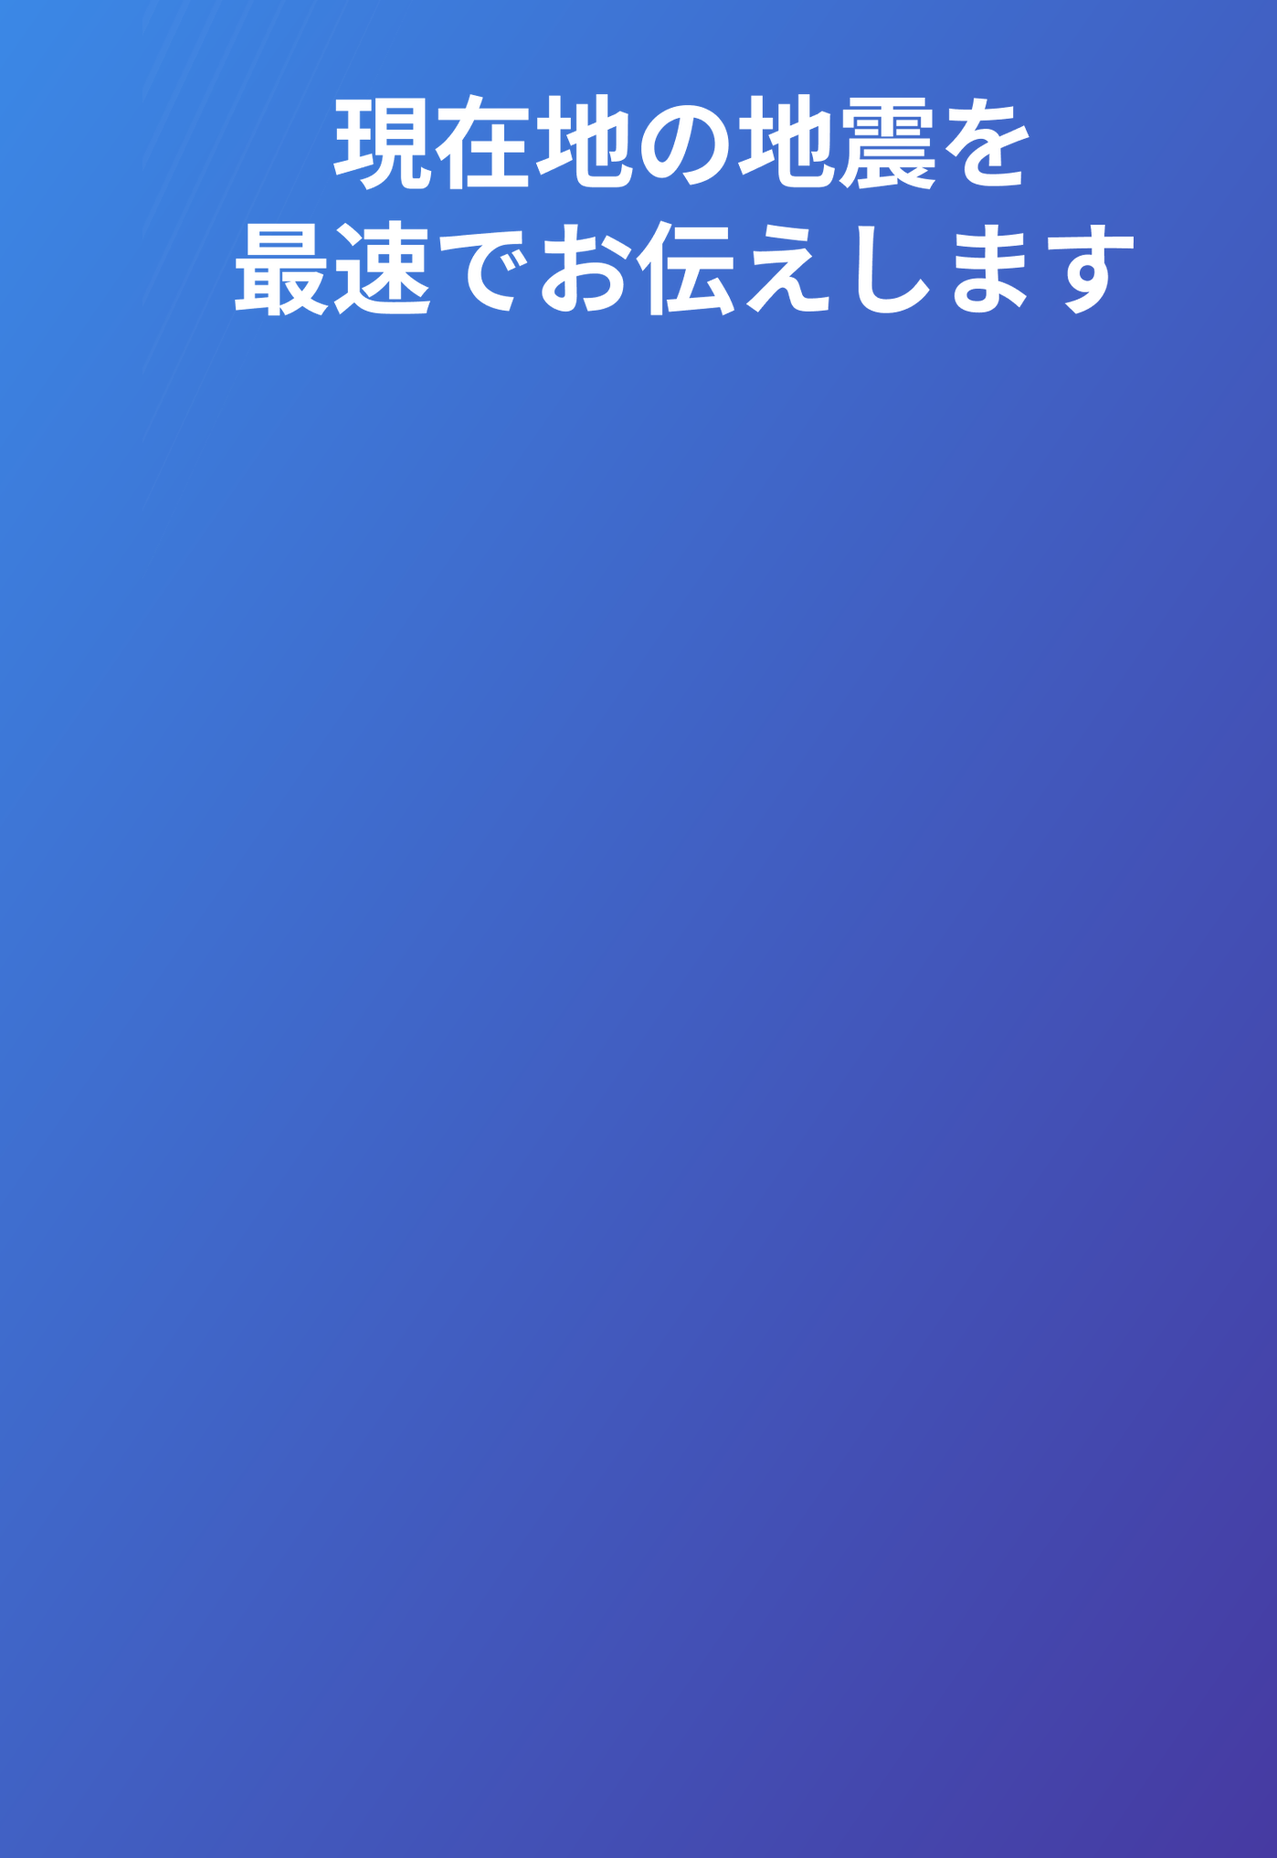
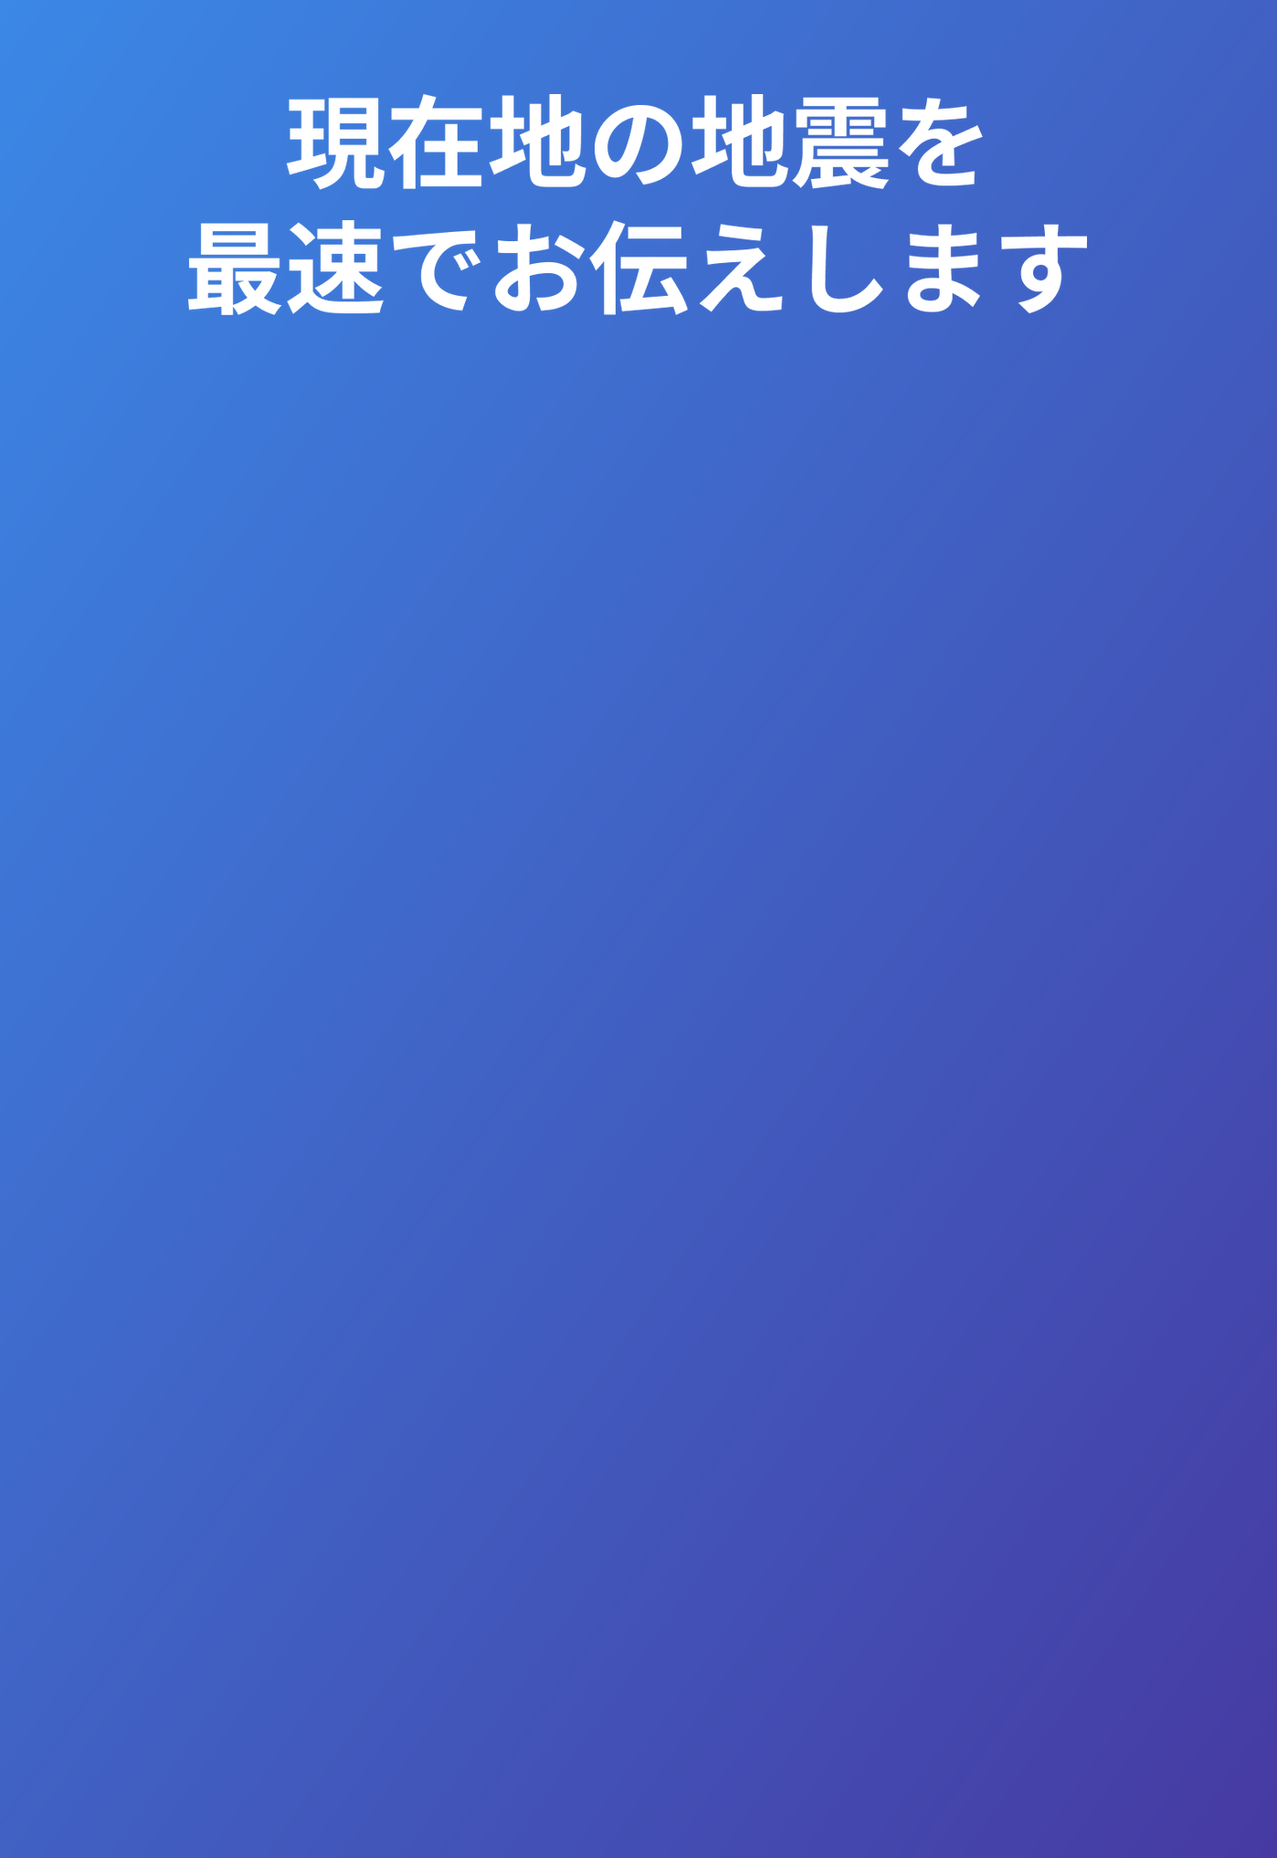
feat: ヘッダと検索結果にロック画面と地震詳細を加え、見出しの抜き出しのずれを直す
- ヘッダと検索結果の iPhone を 4 台（地震詳細・EEW・ロック画面・強震モニタ）にし、外側を奥の上、内側を手前の下に重ねる。
  検索結果の見出しは手前の端末より上に置いて大きくする。
- 背景の左上の隅のグラデーションの推定誤差を見出しとして拾い、切り出す範囲が広がっていた。
  抜き出しの下限を上げ、横位置は元の中心からのずれを保つ。Duo と iPad の背景を作り直した。

Changed region(s): [[0.1538, 0.031, 0.892, 0.1858]]

diff --git a/tool/store_screenshots/creative_assets.py b/tool/store_screenshots/creative_assets.py
@@ -15,19 +15,28 @@ from PIL import Image
 
 sys.path.insert(0, str(Path(__file__).resolve().parent))
 from compose import place_screen  # noqa: E402
-from derive_background import extract_text, fit_gradient, render_gradient  # noqa: E402
+from derive_background import extract_text, fit_gradient, render_gradient, text_left  # noqa: E402
 
 TOOL_DIR = Path(__file__).resolve().parent
 
 # App Store の「ヘッダと検索結果」の画像。寸法と、見せたいものを収める領域（art safe area）は
 # https://developer.apple.com/help/app-store-connect/reference/app-information/creative-assets-specifications （2026-11-24 確認）。
-# 見出しは safe area の中央に、端末は左右に置く。端末と見出しは safe area より大きくしており、
-# 端末の画面の向きによっては端が切れる。phone は端末の高さ、text は見出しの高さの上限（どちらもキャンバスの高さに対する比）。
+# 左右に奥と手前の iPhone を 2 台ずつ重ね、奥は上、手前は下に寄せる。端末と見出しは safe area より大きく、
+# 画面の向きによっては端が切れる。検索結果の見出しは safe area の外（手前の端末より上）に置いている。
+# phone は手前の端末の高さ（キャンバスの高さに対する比）、back は奥の端末の手前に対する比、
+# overlap は奥の端末が手前に隠れる幅の比、watch は Apple Watch の手前の端末に対する比。
 PLACEMENTS = {
-    "header": {"size": (3840, 1646), "safe": (1097, 493, 1646, 661), "phone": 0.88, "text": 0.62},
-    "search_results": {"size": (3840, 2560), "safe": (836, 765, 2168, 1030), "phone": 0.88, "text": 0.36},
+    "header": {
+        "size": (3840, 1646), "safe": (1097, 493, 1646, 661),
+        "phone": 0.84, "back": 0.9, "overlap": 0.45, "watch": 0.38, "text": "center", "text_height": 0.62,
+    },
+    "search_results": {
+        "size": (3840, 2560), "safe": (836, 765, 2168, 1030),
+        "phone": 0.72, "back": 0.9, "overlap": 0.5, "watch": 0.42, "text": "top",
+    },
 }
 MARGIN = 0.02
+EDGE = 0.025
 
 IPHONE = {
     "bezel": "bezel_iphone_18_pro_black_portrait.png",
@@ -63,43 +72,69 @@ def draw_device(canvas: Image.Image, box: dict, screenshot: Path, fixtures: Path
     canvas.alpha_composite(bezel, (round(rect["x"]), round(rect["y"])))
 
 
+def layout(placement: str, text_box: tuple[int, int, int, int], source_width: int) -> tuple[dict, list[dict]]:
+    spec = PLACEMENTS[placement]
+    width, height = spec["size"]
+    margin = width * MARGIN
+    edge = height * EDGE
+    front_height = height * spec["phone"]
+    front_width = IPHONE["frame"][0] * front_height / IPHONE["frame"][1]
+    back_height = front_height * spec["back"]
+    back_width = IPHONE["frame"][0] * back_height / IPHONE["frame"][1]
+    front_top = height - edge - front_height
+    back_right = width - margin - back_width
+    front_left = margin + back_width * (1 - spec["overlap"])
+    front_right = back_right + back_width * spec["overlap"] - front_width
+    watch_height = front_height * spec["watch"]
+    watch_width = WATCH["frame"][0] * watch_height / WATCH["frame"][1]
+    devices = [
+        {**device_box(IPHONE, margin, edge, back_height), "scene": "earthquake_detail"},
+        {**device_box(IPHONE, back_right, edge, back_height), "scene": "kyoshin_monitor"},
+        {**device_box(IPHONE, front_left, front_top, front_height), "scene": "eew_warning"},
+        {**device_box(IPHONE, front_right, front_top, front_height), "scene": "lock_screen_live_activity"},
+        {
+            **device_box(WATCH, width * 0.995 - watch_width, front_top + front_height - watch_height * 0.92, watch_height),
+            "scene": "watch_live_activity",
+        },
+    ]
+
+    text_width, text_height = text_box[2] - text_box[0], text_box[3] - text_box[1]
+    if spec["text"] == "top":
+        top, bottom = edge, front_top - edge / 2
+        available = back_right - (margin + back_width) - 2 * margin
+        scale = min(available * 0.92 / text_width, (bottom - top) / text_height)
+        y = (top + bottom) / 2 - text_height * scale / 2
+    else:
+        _, safe_y, _, safe_h = spec["safe"]
+        available = front_right - (front_left + front_width) - 2 * margin
+        scale = min(available * 0.92 / text_width, height * spec["text_height"] / text_height)
+        y = safe_y + safe_h / 2 - text_height * scale / 2
+    return {"x": text_left(text_box, source_width, scale, width), "y": y, "scale": scale}, devices
+
+
 def render(placement: str, screenshots: Path, fixtures: Path, source: Path) -> Image.Image:
     width, height = PLACEMENTS[placement]["size"]
-    safe_x, safe_y, safe_w, safe_h = PLACEMENTS[placement]["safe"]
     pixels = np.asarray(Image.open(source).convert("RGB"), dtype=np.float64)
     coefficients = fit_gradient(pixels)
-    text, _ = extract_text(pixels, render_gradient(coefficients, pixels.shape[1], pixels.shape[0]))
+    text, box = extract_text(pixels, render_gradient(coefficients, pixels.shape[1], pixels.shape[0]))
     canvas = Image.fromarray(render_gradient(coefficients, width, height).round().astype(np.uint8), "RGB").convert("RGBA")
 
-    spec = PLACEMENTS[placement]
-    margin = width * MARGIN
-    phone_height = height * spec["phone"]
-    phone_width = IPHONE["frame"][0] * phone_height / IPHONE["frame"][1]
-    top = (height - phone_height) / 2
-    left = device_box(IPHONE, margin, top, phone_height)
-    right_x = width - margin - phone_width
-    right = device_box(IPHONE, right_x, top, phone_height)
-    watch_height = phone_height * 0.42
-    watch_width = WATCH["frame"][0] * watch_height / WATCH["frame"][1]
-    watch = device_box(WATCH, width * 0.995 - watch_width, top + phone_height - watch_height * 0.92, watch_height)
-
-    # 見出しは左右の端末の間に収まる最大の大きさにし、safe area の中心に置く。
-    available = right_x - (margin + phone_width) - 2 * margin
-    scale = min(available * 0.92 / text.width, height * spec["text"] / text.height)
+    placed, devices = layout(placement, box, pixels.shape[1])
+    scale = placed["scale"]
     text = text.resize((round(text.width * scale), round(text.height * scale)), Image.LANCZOS)
-    center_y = safe_y + safe_h / 2
-    canvas.alpha_composite(text, (round((width - text.width) / 2), round(center_y - text.height / 2)))
-
-    draw_device(canvas, left, screenshots / "eew_warning.png", fixtures)
-    draw_device(canvas, right, screenshots / "kyoshin_monitor.png", fixtures)
-    if (screenshots / "watch_live_activity.png").is_file():
-        draw_device(canvas, watch, screenshots / "watch_live_activity.png", fixtures)
+    canvas.alpha_composite(text, (round(placed["x"]), round(placed["y"])))
+    for device in devices:
+        screenshot = screenshots / f"{device['scene']}.png"
+        if device["scene"] == "watch_live_activity" and not screenshot.is_file():
+            continue
+        draw_device(canvas, device, screenshot, fixtures)
     return canvas.convert("RGB")
 
 
 def main() -> None:
     parser = argparse.ArgumentParser(description="Render the App Store product page header and search results images")
-    parser.add_argument("--screenshots", type=Path, required=True, help="directory with eew_warning / kyoshin_monitor / watch_live_activity captures")
+    parser.add_argument("--screenshots", type=Path, required=True, help="directory with eew_warning / kyoshin_monitor / earthquake_detail / lock_screen_live_activity "
+        "(and optionally watch_live_activity) captures")
     parser.add_argument("--fixtures", type=Path, required=True, help="directory with decrypted fixtures (device frames)")
     parser.add_argument("--background", type=Path, default=TOOL_DIR / "backgrounds" / "01_eew.png", help="background with the logo and tagline")
     parser.add_argument("--output", type=Path, required=True)

diff --git a/tool/store_screenshots/derive_background.py b/tool/store_screenshots/derive_background.py
@@ -14,6 +14,9 @@ from PIL import Image
 # Figma のデザインは iPhone の縦長の画面向けしか無い。iPhone Duo などの別の縦横比には、
 # 既存の背景からグラデーションを推定し、白い見出しとロゴだけを抜き出して置き直す。
 TEXT_THRESHOLD = 12
+# Figma の背景は 3 色のグラデーションで、線形の推定とは左上の隅で白の割合にして最大 0.03 ずれる。
+# これを見出しとして拾うと、切り出す範囲が隅まで広がり、置き直した見出しが中央から外れる。
+TEXT_ALPHA_FLOOR = 0.05
 
 
 def fit_gradient(pixels: np.ndarray) -> np.ndarray:
@@ -36,28 +39,33 @@ def render_gradient(coefficients: np.ndarray, width: int, height: int) -> np.nda
     return np.clip(basis @ coefficients, 0, 255)
 
 
-def extract_text(pixels: np.ndarray, gradient: np.ndarray) -> tuple[Image.Image, int]:
+def extract_text(pixels: np.ndarray, gradient: np.ndarray) -> tuple[Image.Image, tuple[int, int, int, int]]:
     # 見出しとロゴは白一色。各画素の白の割合を (画素 - 地) / (白 - 地) で求める。
     alpha = ((pixels - gradient) / np.maximum(255 - gradient, 1)).max(axis=-1)
     alpha = np.clip(alpha, 0, 1)
-    alpha[alpha < 0.02] = 0
+    alpha[alpha < TEXT_ALPHA_FLOOR] = 0
     layer = np.zeros((*alpha.shape, 4), dtype=np.uint8)
     layer[..., :3] = 255
     layer[..., 3] = np.round(alpha * 255).astype(np.uint8)
     image = Image.fromarray(layer, "RGBA")
     box = image.getbbox()
-    return image.crop(box), box[1]
+    return image.crop(box), box
+
+
+def text_left(box: tuple[int, int, int, int], source_width: int, scale: float, width: float) -> float:
+    # Figma の見出しは文字の送り幅で中央揃えしており、「 などで字面は中央からずれる。そのずれも拡大して保つ。
+    return width / 2 + (box[0] - source_width / 2) * scale
 
 
 def derive(source: Path, width: int, height: int, text_scale: float) -> Image.Image:
     pixels = np.asarray(Image.open(source).convert("RGB"), dtype=np.float64)
     coefficients = fit_gradient(pixels)
-    text, top = extract_text(pixels, render_gradient(coefficients, pixels.shape[1], pixels.shape[0]))
+    text, box = extract_text(pixels, render_gradient(coefficients, pixels.shape[1], pixels.shape[0]))
     background = Image.fromarray(render_gradient(coefficients, width, height).round().astype(np.uint8), "RGB").convert("RGBA")
     # 元の幅に対する比率を保ち、見出しの大きさと上端の余白を揃える。
     scale = width / pixels.shape[1] * text_scale
     text = text.resize((round(text.width * scale), round(text.height * scale)), Image.LANCZOS)
-    background.alpha_composite(text, (round((width - text.width) / 2), round(top * scale)))
+    background.alpha_composite(text, (round(text_left(box, pixels.shape[1], scale, width)), round(box[1] * scale)))
     return background.convert("RGB")
 
 

diff --git a/docs/knowledge/store_screenshots.md b/docs/knowledge/store_screenshots.md
@@ -58,12 +58,16 @@ FIGMA_TOKEN=<token> mise exec -- uv run tool/store_screenshots/figma_extract.py 
 Figma のデザインは iPhone の縦長（1290×2796）しか無い。別の縦横比は、既存の背景と自前で描いた枠から作る。
 
 - `derive_background.py`: 既存の背景から線形グラデーションを最小二乗で推定し、白い見出し・ロゴを (画素 - 地) / (白 - 地) で抜き出して新しい寸法に置き直す。
-  同じ寸法で作り直すと元との平均差は約 2%。見出しの大きさは元の幅に対する比率（`--text-scale` で調整）。
+  同じ寸法で作り直すと元との平均差は 0.1/255 未満。見出しの大きさは元の幅に対する比率（`--text-scale` で調整）。
+  横位置は元の中心からのずれ（「 で始まる見出しは字面が右に寄る）を拡大して保つ。
+  元の背景は 3 色のグラデーションで、線形の推定とは左上の隅で白の割合にして最大 0.03 ずれる。抜き出しの下限（`TEXT_ALPHA_FLOOR`）を 0.05 にして、このずれを見出しとして拾わないようにしている。
+  2026-11-24 までの下限 0.02 では切り出す範囲が隅まで広がり、Duo と iPad の見出しが 45〜118px 右にずれていた（ヘッダ・検索結果には薄い縞が出ていた）。
 - `generate_frame.py`: 画面の寸法から黒い端末の枠を描く（画面は透明、カメラの穴とボタンは任意）。生成物は `frames/` に置き、`compose.py` は fixture に無い枠を `frames/` から読む。
   Apple Design Resources に `Bezel-iPhone-Duo.dmg` があるが、取得していない（ダウンロードと使用許諾への同意が必要）。
 - `layout_*.json` の `backgroundCrop` で背景の一部を切り出せる。
-- 生成した画像（プロダクトページ、Duo、iPad、Android）は Figma の Section `Store Screenshot（生成済み）`（`2149:447`、`iOS Store Screenshot` の右）に原寸の 1/2 の枠で貼ってある（2026-11-24）。
-  見比べるための写しで、合成の入力ではない。画像を作り直したときは手で貼り直す。
+- 生成した画像（プロダクトページ、Duo、iPad、Android）は Figma の Section `Store Screenshot`（`2149:447`、`iOS Store Screenshot` の右）に、合成と同じ配置のレイヤーで原寸の 1/2 の枠に組んである（2026-11-24）。
+  背景のグラデーションと見出し（ロゴを含む）は元デザインの frame から複製して拡大縮小し、画面と端末は画像のレイヤー。黒の iPhone 18 Pro と Apple Watch の端末画像（暗号化している fixture）もこのファイルに置いた。
+  Figma の書き出しと PNG を半分の大きさで比べ、見出しの位置が 1px 以内、全体のずれが無いことを確かめた。合成の入力ではないため、配置を変えたら Figma MCP で組み直す。
 
 ### iPhone Duo
 
@@ -101,8 +105,10 @@ mise exec -- uv run tool/store_screenshots/compose.py --layout tool/store_screen
 - [App Store Connect の仕様](https://developer.apple.com/help/app-store-connect/reference/app-information/creative-assets-specifications)（2026-11-24 確認）:
   ヘッダ 21:9 3840×1646（PNG、見せたいものを収める領域は x 1097, y 493 から 1646×661）、検索結果 3:2 1920×1280〜3840×2560（領域は 3840×2560 のとき x 836, y 765 から 2168×1030）、
   両方に使える 16:9 5244×2950（PNG、領域は x 1921, y 660 から 1402×962）もあるが作っていない。透過は使えない。
-- `creative_assets.py` がヘッダと検索結果の 2 種を作る。ロゴと見出しを 01 の背景から抜き出して領域の中央に置き、左右に iPhone（EEW・強震モニタ）と Apple Watch を置く。
-  見出しと端末は見やすさを優先して領域より大きくしているため、端末の画面の向きによっては端が切れる。登録時のプレビューで確かめる。
+- `creative_assets.py` がヘッダと検索結果の 2 種を作る。入力は iPhone の `eew_warning`・`kyoshin_monitor`・`earthquake_detail`・`lock_screen_live_activity`（と任意の `watch_live_activity`）。
+  iPhone は左から地震詳細・EEW・ロック画面・強震モニタの 4 台で、外側の 2 台（詳細・強震モニタ）を奥の上、内側の 2 台を手前の下に置き、右下の手前に Apple Watch を置く。奥の端末は半分ほど手前に隠れる。
+  ロゴと見出しは 01 の背景から抜き出し、ヘッダでは手前の 2 台の間で領域の中央、検索結果では手前の端末より上（奥の 2 台の間）に置く。
+  検索結果の見出しは領域の外にあり、端末も領域より大きいため、画面の向きによっては端が切れる。登録時のプレビューで確かめる。
 
 ### Android（Pixel 11 Pro）
 

diff --git a/docs/todo/850_store_screenshots.md b/docs/todo/850_store_screenshots.md
@@ -45,7 +45,7 @@
 - [x] App Store Connect に iPhone Duo のスクリーンショットを登録する（2026-11-24、iOS 3.1.0・日本語、外側 4 枚・内側 3 枚）。2027 年 4 月から iOS 27.1 SDK 以降で必須。
 - [ ] 内側（横向き）で通知センターを撮る。`openNotifications()` と `closeHeadsUpNotification()` が横向きで効かなかった。
 - [ ] 枠を Apple Design Resources の `Bezel-iPhone-Duo.dmg` に差し替えるか決める（使用許諾への同意が必要）。
-- [ ] Figma に Duo 用のフレームを作るか決める。現在は既存の背景から `derive_background.py` で作っている。
+- [ ] Figma に組んだ Duo のレイヤー（`Store Screenshot`）を合成の元にするか決める。現在の合成は既存の背景から `derive_background.py` で作り、Figma は合成に合わせて組んだ写し。
 - [ ] `capture-ios` に Duo の撮影を足す。
 
 ## 640: iPad とプロダクトページの画像
@@ -53,7 +53,8 @@
 - [x] iPad 13 インチの 3 枚を App Store Connect に登録する（2026-11-24、12.9 インチの枠にも縮小版を登録）。
 - [ ] iPad と Duo の内側で通知センターを撮る。重大な通知のバナーが閉じず、通知センターも開かなかった。
 - [ ] iPad のステータスバーの日付を固定する（`--time` に ISO の日時を渡すと日付も変わるが、iPhone のロック画面の日付にも影響しうる）。
-- [ ] プロダクトページのヘッダと検索結果の画像（`creative_assets.py`）を App Store Connect に登録する。Figma のデザインは無く、生成した画像を Figma の `Store Screenshot（生成済み）` に貼ってある。16:9 の共通版は作らない。
+- [ ] プロダクトページのヘッダと検索結果の画像（`creative_assets.py`）を App Store Connect に登録する。元のデザインは無く、合成と同じ配置のレイヤーを Figma の `Store Screenshot` に組んである。16:9 の共通版は作らない。
+- [ ] 見出しのずれを直した Duo（外側 4 枚・内側 3 枚）と iPad（13 インチ・12.9 インチ各 3 枚）を App Store Connect に登録し直す。2026-11-24 に登録した画像は見出しが 45〜118px 右にずれている。
 
 ## 600: Android とストアへの反映
 
